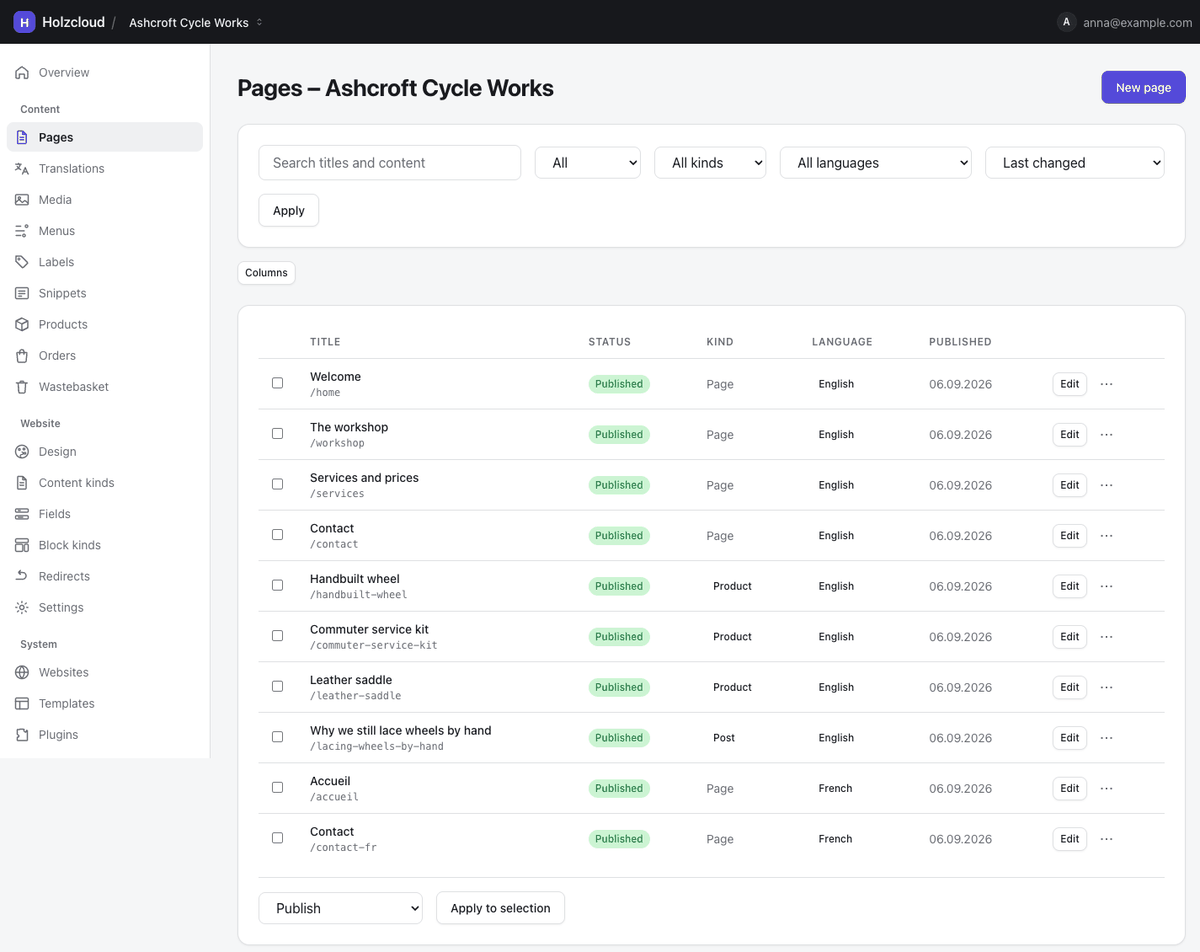
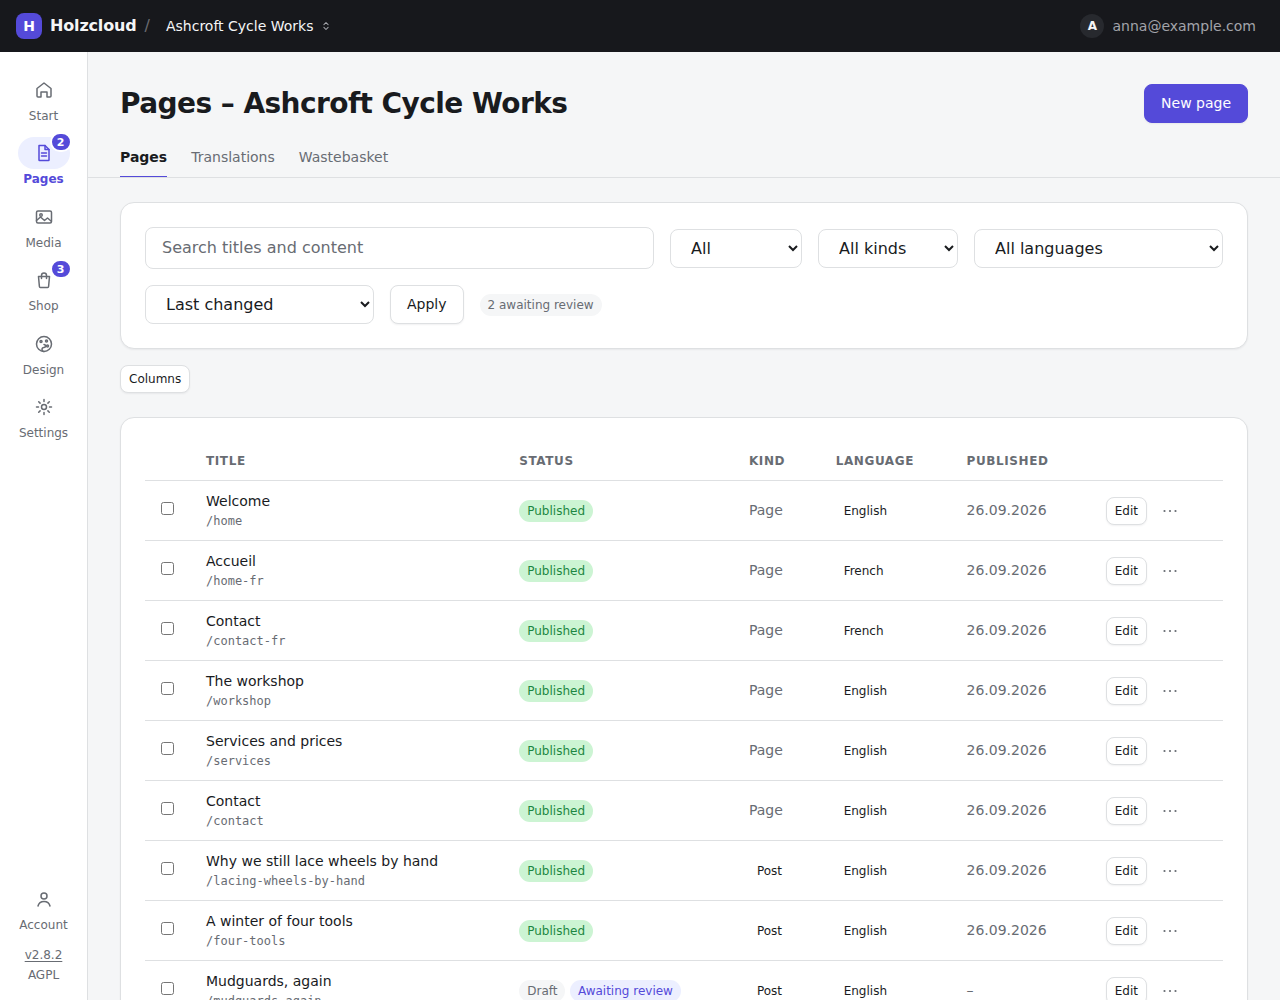
docs(readme): Stand 2.8 — neue Bilder, Editor, Medien, Shop, Export, KI-Stufen
Die Bilder zeigten noch die Seitenleiste von vor 2.6 und den Block-Editor als
eigene Oberfläche. Neu aufgenommen an einer englischen Beispielseite:
Seitenliste, Editor mit + Element, Medienbibliothek, Design neben der Vorschau,
Shop-Übersicht, Felder, dazu die öffentliche Seite. Im Text nachgetragen, was
seither dazukam: Elemente zwischen dem Text, Bibliothek mit Alben, Shop,
statischer Export, die drei Schlüsselstufen und die Anmeldung über OAuth.

Claude-Session: https://claude.ai/code/session_0155M5W2zbDdFrWcTSKNS2dX

diff --git a/README.md b/README.md
@@ -4,8 +4,8 @@
 
 A self-hosted CMS for a small server: **one Go binary, one SQLite file, many
 websites**. Requests are routed to a site by their `Host` header, content is
-written in Markdown or in a block editor, and pages are served by
-server-rendered Go templates.
+written in Markdown with images, galleries and forms dropped in between, and
+pages are served by server-rendered Go templates.
 
 Nothing is loaded from a third party while the application runs — no CDN, no web
 fonts, no analytics, no embeds. That is what makes a `default-src 'self'`
@@ -32,8 +32,11 @@ New website**, where you give the site a domain.
 
 - **Multiple websites, multiple domains** — one instance, routed by `Host`
 - **Pages and posts in Markdown**, rendered with goldmark and sanitised with bluemonday
-- **A block editor** — nine built-in kinds (text, image, image-and-text, gallery,
-  cards, quotation, call to action, video, rule), and any number of your own
+- **Elements between the text** — **+ Element** drops an image, a gallery, cards,
+  a quotation, a call to action, a video or a block kind of your own into the
+  page; nine are built in, and any number of your own can be added
+- **A live preview beside the editor**, with settings and versions in tabs
+  next to it
 - **Fields of your own** — sixteen kinds of input, including repeatable groups,
   sections, conditions and references to other pages of the same site
 - **Content kinds of your own** — beyond *page* and *post*: product, event,
@@ -44,33 +47,59 @@ New website**, where you give the site a domain.
   language lives under its prefix (`/fr/contact`), with `hreflang` and a language picker
 - **A translated admin** — German, English, French, Italian, Spanish, plus Swiss
   variants; a further language is a JSON file in a directory, no rebuild
-- **Media** with magic-byte validation, cropping and **camera data stripped on upload**
+- **One media library with albums** — upload several files at once, filter
+  what is unused or has no description, crop, set a focal point; **camera data
+  is stripped on upload** and every file is checked by its magic bytes
+- **A shop** — products with stock, orders with invoice or payment in advance
+  (Payrexx optional), and an overview that says what is waiting: a payment
+  overdue, an order to send, a product running out
 - **Search, snippets, scheduling, redirects** and a record of the addresses
   visitors asked for and did not find
 - **SEO** — `sitemap.xml`, `robots.txt` and schema.org JSON-LD with address,
   opening hours and telephone number
-- **Export and import** — a whole website as one readable archive, plus a
-  WordPress WXR importer
+- **Export and import** — a whole website as one readable archive, a WordPress
+  WXR importer, and `holzcloud export` for a static copy any web host can serve
 - **Users** with admin and editor roles, per-person website and publishing
   rights, Argon2id hashing and compulsory two-factor for administrators
 - **An MCP endpoint** so you can point your own AI assistant at the running CMS
-  and do everything the admin can, without ever signing in to the web interface
+  and do everything the admin can, without ever signing in to the web interface —
+  with a key of one of three levels (`read`, `content`, `admin`), or by simply
+  adding the address in Claude or ChatGPT and agreeing to it once (OAuth)
 - **Plugins** as separate Go modules — contact form, farm-shop orders, search,
   404 log, year token
 
 ## In the admin
 
-htmx is progressive enhancement here, not a requirement: every state-changing
-action is an ordinary form, and the whole admin works with JavaScript switched
-off.
+Six places in a slim rail — start, pages, media, shop, design, settings — each
+with a number when something there waits for you: pages awaiting review, orders
+not yet dealt with, images without a description. htmx is progressive
+enhancement, not a requirement: every state-changing action is an ordinary
+form, and the whole admin works with JavaScript switched off.
 
 ![The page list](docs/screenshots/admin-pages.png)
 
-A page can be written in Markdown or built from blocks. Besides the nine
-built-in block kinds, each website defines its own — here a *Repair step* with a
-heading, instructions, a photograph and a switch the theme reads as a CSS class.
+A page is written in Markdown, with a preview of the real theme beside it.
+**+ Element** puts an image, a gallery, cards or one of the website's own block
+kinds — here a *Repair step* — between two paragraphs; the text so far becomes
+the first section and the element follows it.
 
-![The block editor](docs/screenshots/block-editor.png)
+![The editor](docs/screenshots/editor.png)
+
+All files of a website are in one library. Albums are collections in it, not a
+second place to keep pictures: an image can be in several, and a gallery can
+show an album instead of a hand-picked list.
+
+![The media library](docs/screenshots/media-library.png)
+
+Design sits between "pick one of eight templates" and "maintain a template of
+your own": a handful of validated values that every built-in template picks up,
+set beside a live preview that switches between desktop and phone.
+
+![Design beside its preview](docs/screenshots/design.png)
+
+The shop opens on what is to be done, not on a list of orders.
+
+![The shop overview](docs/screenshots/shop-overview.png)
 
 Whatever else belongs on a page of *this* website is defined under **Fields**. A
 field applies to pages, to posts, to both, or to exactly one of your own content
@@ -79,11 +108,6 @@ filled in as many times as there are rows; a reference points at another page of
 the site and follows it when it is renamed.
 
 ![Fields of a website](docs/screenshots/custom-fields.png)
-
-Design sits between "pick one of eight templates" and "maintain a template of
-your own": a handful of validated values that every built-in template picks up.
-
-![Design and templates](docs/screenshots/design-templates.png)
 
 ## Configuration
 
@@ -131,11 +155,14 @@ internal/
   block/  field/          The block editor and the websites' own fields
   admin/  public/         Admin handlers and the public site
   template/  tmplmgr/     Template loading and template-archive upload
-  media/  menu/  bundle/  Media, menus, export and import
+  media/  album/  menu/    Media library, albums, menus
+  shop/  payrexx/         Products, orders, payment
+  bundle/  export/  wxr/  Website archives, static export, WordPress import
+  ai/                     The MCP endpoint, keys and OAuth
   i18n/                   Admin translations, on disk and embedded
 plugins/                  Bundled plugins, each its own Go module
 sites/                    Complete example websites as readable source
-tools/                    mkbundle, i18n
+tools/                    mkbundle, i18n and the other checks CI runs
 ```
 
 | Component | Choice | Why |
@@ -159,7 +186,7 @@ tools/                    mkbundle, i18n
 | [Multilingual](docs/multilingual.md) | Site languages, admin languages, regional variants |
 | [Security](docs/security.md) | The threat model, two-factor, rights, why there is no cookie banner |
 | [Import and export](docs/import-export.md) | Website bundles, the WordPress importer |
-| [AI access](docs/ai-access.md) | The MCP endpoint and its tools |
+| [AI access](docs/ai-access.md) | The MCP endpoint, key levels and its tools |
 | [Deployment](docs/deployment.md) | Building, running, backing up, versioning |
 | [The mark](docs/brand/README.md) | The logo, its variants and the rules for using it |
 
